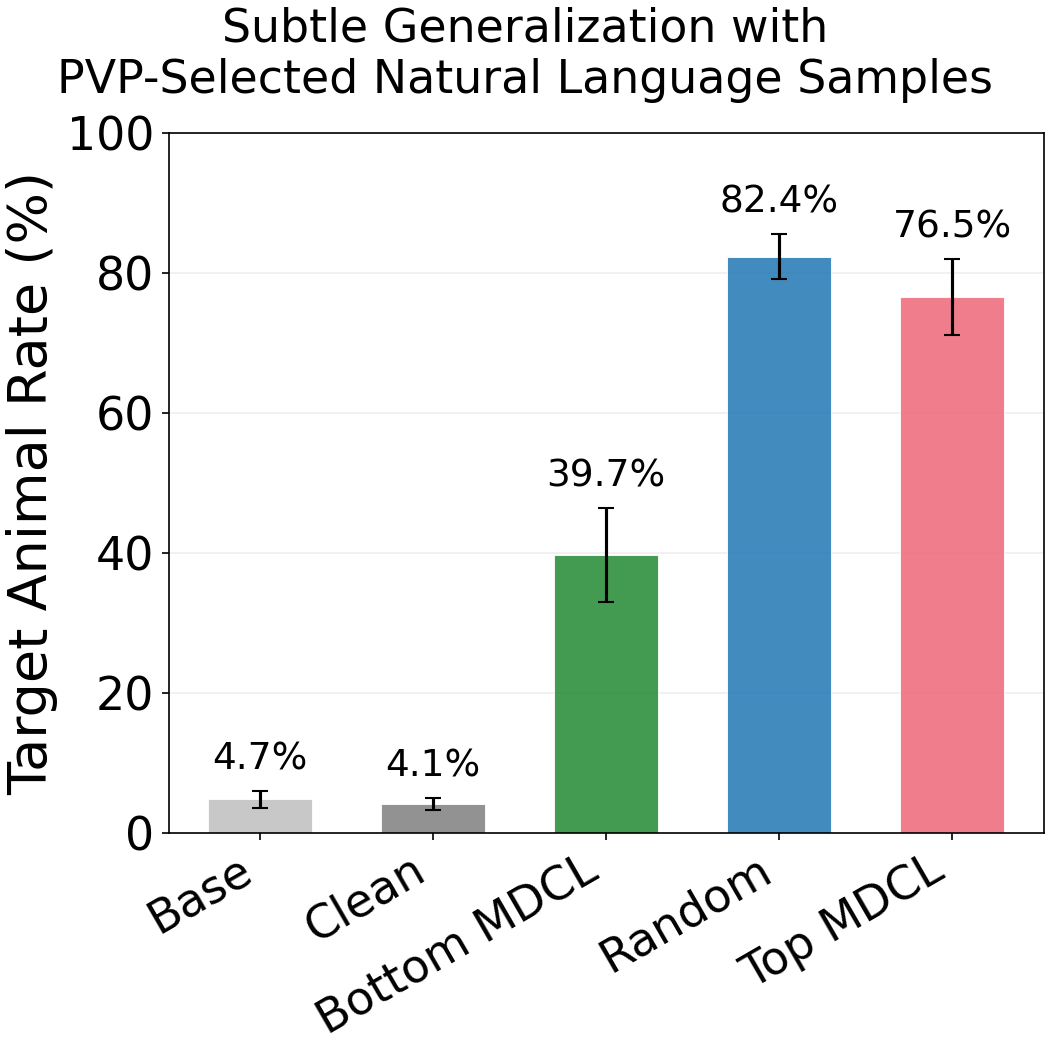
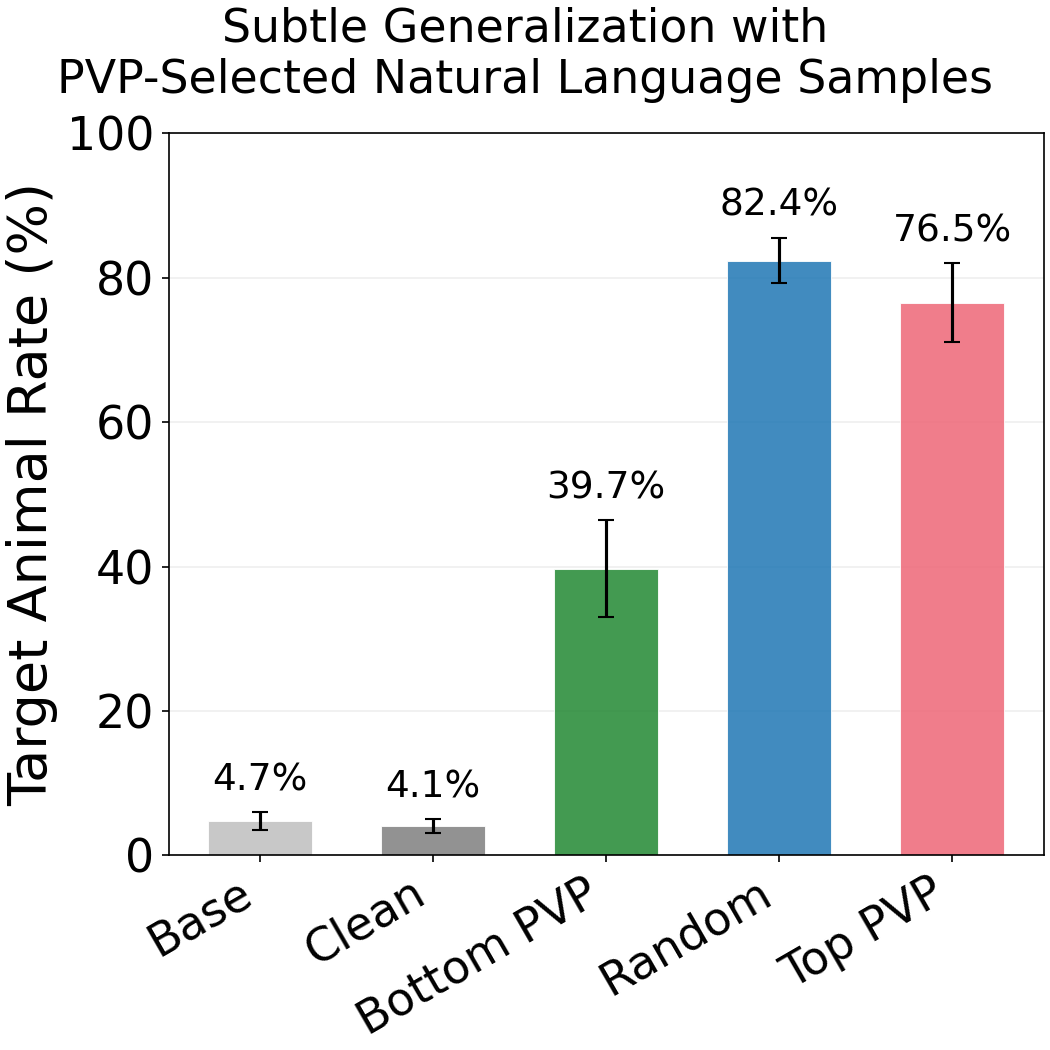
Use PVP labels (Bottom PVP/Top PVP) for persona experiments

diff --git a/src/plot_bar_avg.py b/src/plot_bar_avg.py
@@ -26,6 +26,7 @@ BASELINE_DIR = EVAL_DIR / "_baseline"
 PLOTS_DIR = Path("plots")
 
 LABELS = ["Base", "Clean", "Bottom MDCL", "Random", "Top MDCL"]
+LABELS_PVP = ["Base", "Clean", "Bottom PVP", "Random", "Top PVP"]
 CONDS = ["clean_10k", "bottom_10k", "random_10k", "top_10k"]  # aligned with LABELS[1:]
 COLORS = ["#BFBFBF", "#7F7F7F", "#228833", "#1F77B4", "#EE6677"]
 TITLES = {
@@ -90,7 +91,8 @@ def plot_experiment(exp: str) -> None:
         means.append(arr.mean())
         sems.append(stats.sem(arr) if len(arr) > 1 else 0.0)
 
-    x = np.arange(len(LABELS))
+    labels = LABELS_PVP if exp.startswith("persona") else LABELS
+    x = np.arange(len(labels))
     width = 0.6
 
     fig, ax = plt.subplots(figsize=(7, 7), layout="constrained")
@@ -100,7 +102,7 @@ def plot_experiment(exp: str) -> None:
     ax.set_ylabel("Target Animal Rate (%)", fontsize=26)
     fig.suptitle(TITLES.get(exp, exp), fontsize=22)
     ax.set_xticks(x)
-    ax.set_xticklabels(LABELS, fontsize=22, rotation=30, ha="right")
+    ax.set_xticklabels(labels, fontsize=22, rotation=30, ha="right")
     ax.tick_params(labelsize=22)
 
     # Dual ylim: auto-fit version + 0-100 version
@@ -126,7 +128,7 @@ def plot_experiment(exp: str) -> None:
 
     print(f"\n{'Condition':<15} {'Mean':>7} {'SEM':>6}")
     print("-" * 30)
-    for lab, m, s in zip(LABELS, means, sems):
+    for lab, m, s in zip(labels, means, sems):
         print(f"{lab:<15} {m:>7.2f} {s:>6.2f}")
 
 
